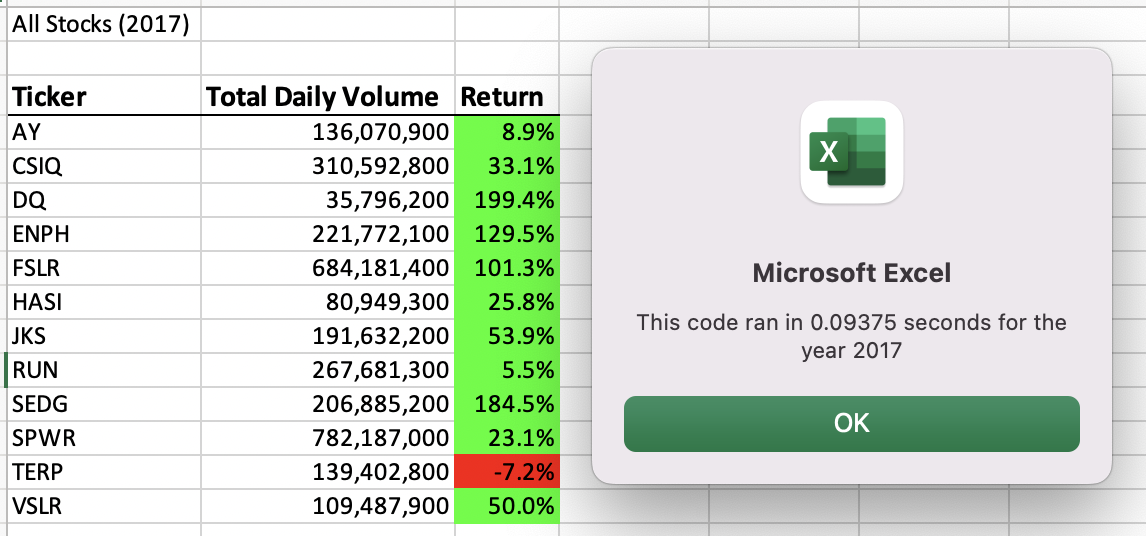
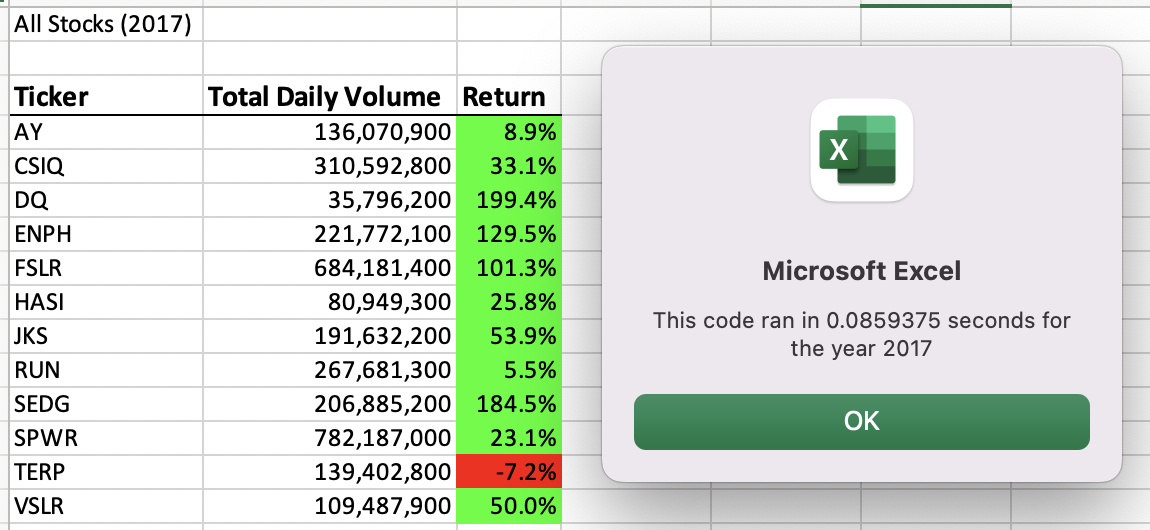
Updating README.md

diff --git a/README.md b/README.md
@@ -1,1 +1,49 @@
-# stock_analysis
+# An Analysis of Green Stocks
+
+## Overview of Project
+
+### Purpose
+
+The purpose of this project is to refactor a VBA script that creates a report of the data of daily trade volumes and prices of 12 green stocks from the years **2017** & **2018**. The analysis highlights the following, sorted by stock ticker symbol:
+
+* The **total daily volume** of shares/stocks traded
+* The **annual return** amount
+
+The original script looped through the entire table of stock data by an amount equal to the amount of unique tickers being analysed. The objective is to get the code to go through the stock data only one time, and to measure the runtime speeds of the old vs new code.
+ 
+ 
+## Results
+
+### Analysis of Data
+
+#### Explanation
+
+Using the VBA script, an analysis of the data was created. Sorted by ticker symbol, the analysis displays the **Total Daily Volumes** and **Return** amount. The total daily volume is the **sum** of every recorded daily volume for each respective stock. The return column outlines the percentage increase/decrease of stock price from the beginning of the year to the price at end of the year.
+
+
+##### 2017
+
+![green_stocks_analysis_2017](/resources/green_stocks_analysis_2017.png)
+
+
+##### 2018
+
+![green_stocks_analysis_2018](/resources/green_stocks_analysis_2018.png)
+
+
+#### Brief Discussion
+
+2017 was a great year for investing in 11 of 12 of the green stocks being analyzed. A great year in general for investing in green stocks. 
+
+2018 was a risky year to invest in green stocks, with only 2 of 12 being analyzed seeing positive returns. The 2 stocks that had positive returns, which both had positive returns the year prior, would have made great 2 year investments.
+
+
+### Refactoring of the Code
+
+#### Explanation
+
+The main reason for refactoring the code was due to the code originally going through a `For i = 0 To 11` loop through the entire dataset, as it worked its way through the array indexing of the **tickers**. This needed to be simplified to a single loop.
+
+#### Approach
+
+
